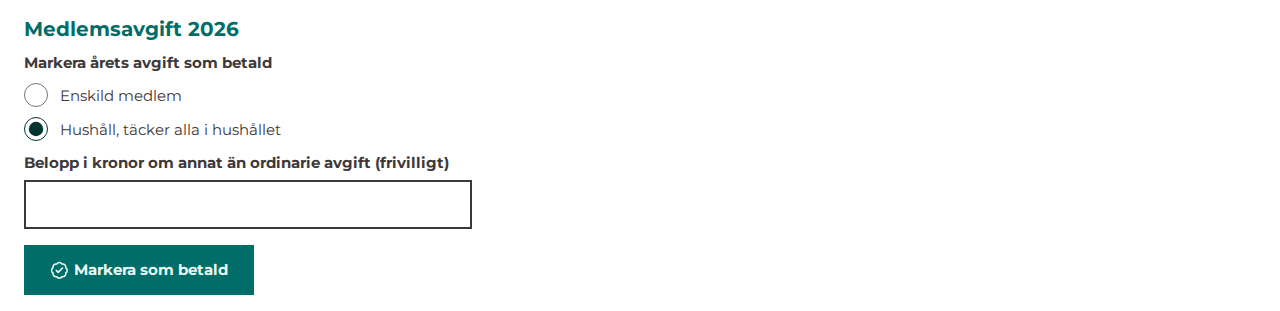
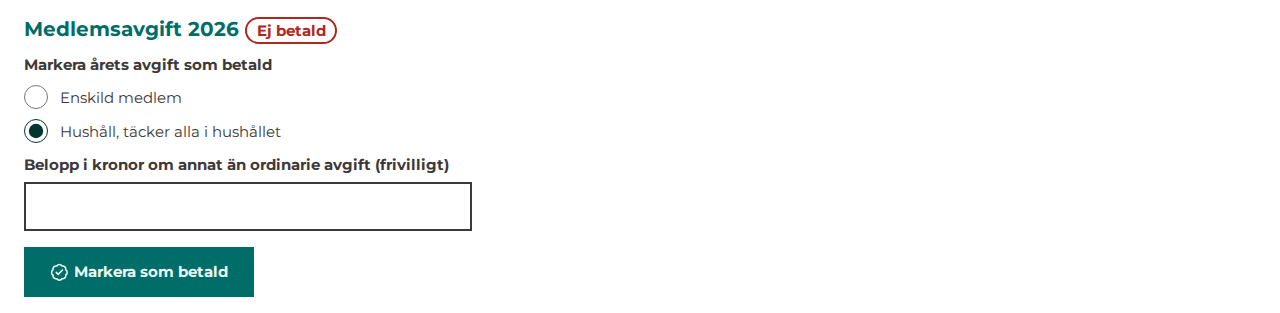
110 lägg till en medlem med status ej betalt via admin sida (#133)
Closes #110

## How I tested:

I have signIn as admin Karin 
<karin.holmberg@example.test> and add a new member that was not exiting
on seed data as <dust.nymedlem@viaadmin.com> and
<bele.issue110@example.com>

<img width="1428" height="807" alt="Image"
src="https://github.com/user-attachments/assets/0b8e81f8-08dd-4c11-9673-6a4916fc3aa2"
/>
<img width="1410" height="800" alt="Image"
src="https://github.com/user-attachments/assets/6b1b1d33-ddec-493e-957b-3eed4c9ab18f"
/>
<img width="1439" height="813" alt="Image"
src="https://github.com/user-attachments/assets/b2173186-5979-4a76-88b4-d9ce652179c6"
/>
<img width="1429" height="804" alt="Image"
src="https://github.com/user-attachments/assets/ce714d28-1082-4ef2-9bd4-8a66369e994d"
/>
<img width="1369" height="791" alt="Image"
src="https://github.com/user-attachments/assets/e28ab05a-8e8c-4db2-97bc-f50a09c86e48"
/>
<img width="1424" height="813" alt="Image"
src="https://github.com/user-attachments/assets/90f39681-f061-43e3-814a-ebe1a4c72543"
/>

## Review corrections

A Codex review of e9b7fb8 found four problems, and CI's `test` job
failed with 6 errors from them. The merge of main in 9e955d1 fixes them
by keeping main's files and applying this pull request's intent on top:

1. The new-member page dereferenced a `member` the controller never
passes, so `/admin/medlemmar/ny` threw a `NullPointerException`.
memberNew.jte is main's again: a member that does not exist yet has no
fee status.
[…]

diff --git a/e2e/tests/layout.spec.ts b/e2e/tests/layout.spec.ts
@@ -246,7 +246,7 @@ for (const width of WIDTHS) {
       await expect(page.locator("[data-passkey-offer]")).toBeVisible();
       const found = await here(page, "/admin");
       await page.goto("/admin/medlemmar");
-      const unpaid = await page.getByRole("row").filter({ hasText: text("fee.notPaid") }).first()
+      const unpaid = await page.getByRole("row").filter({ hasText: text("fee.badge.unpaid") }).first()
         .getByRole("link").getAttribute("href");
       expect(unpaid).not.toBeNull();
       // An unpaid member's page has the radio buttons to record a payment.

diff --git a/src/test/java/se/teaterihuskvarna/member/FeeIT.java b/src/test/java/se/teaterihuskvarna/member/FeeIT.java
@@ -156,6 +156,11 @@ class FeeIT extends MemberRegisterSupport {
                 .contains("Erik Lindqvist", "Maria Lindqvist").doesNotContain("Johan Bergström");
         assertThat(page("/admin/medlemmar?avgift=obetald&q=lindqvist")).doesNotContain("Lindqvist</a>");
         assertThat(page("/admin/medlemmar?avgift=okänt")).contains("Johan Bergström", "Erik Lindqvist");
+        // The fee column and the member's page say the status with the same badge as /medlem (#110).
+        assertThat(unpaid).contains("<span class=\"badge badge-unpaid\">Ej betald</span>");
+        assertThat(page("/admin/medlemmar?avgift=betald")).contains("<span class=\"badge badge-paid\">Betald</span>",
+                "<th scope=\"col\">Markerad som betald</th>");
+        assertThat(page("/admin/medlemmar/" + johan)).contains("<span class=\"badge badge-unpaid\">Ej betald</span>");
 
         mockMvc.perform(get("/api/admin/members").param("fee", "UNPAID").with(asAdministrator()))
                 .andExpect(status().isOk())
